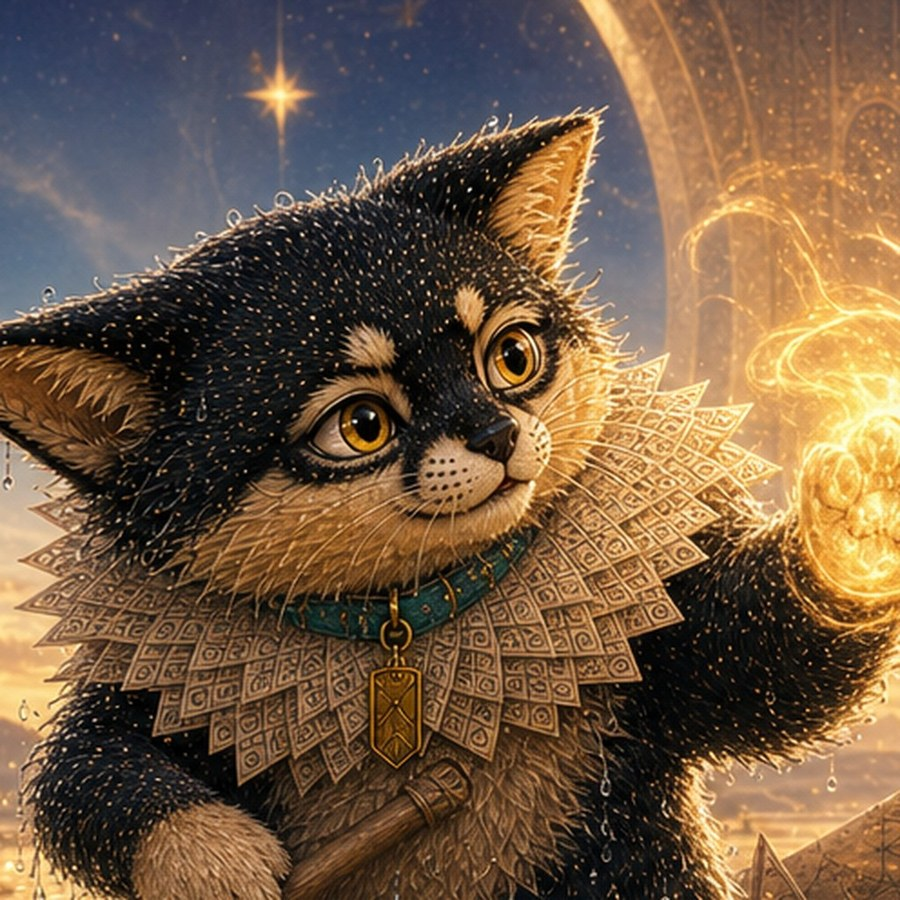
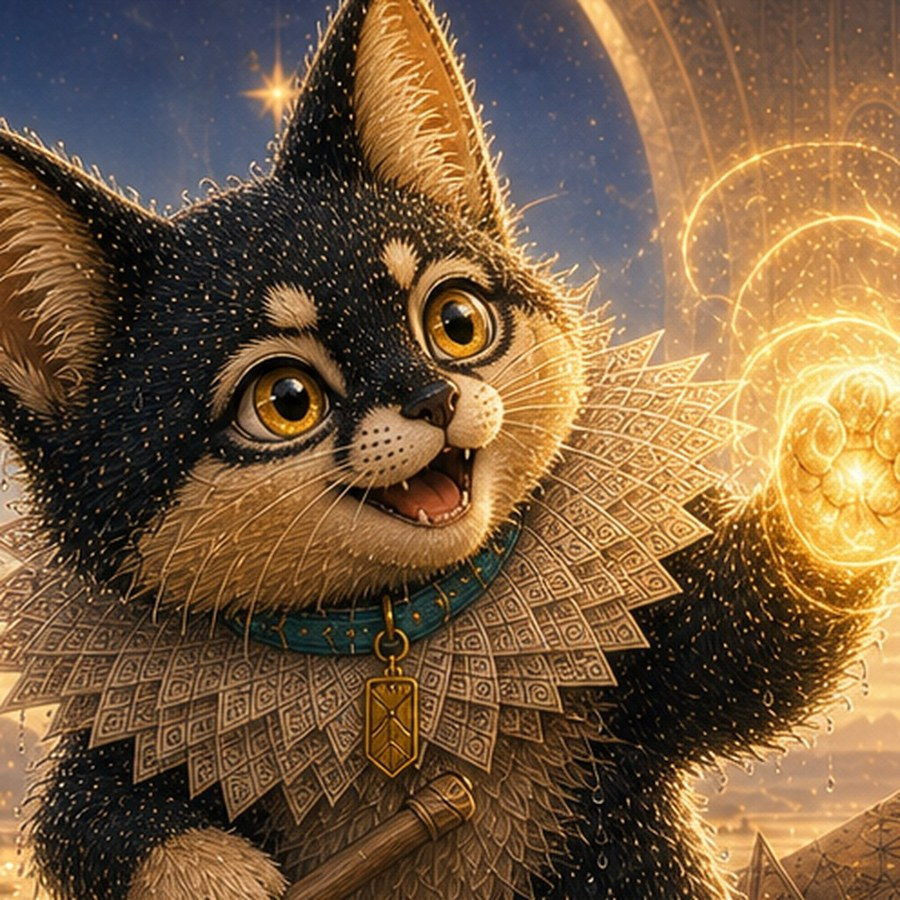
Make July 27 Yeer joyful

diff --git a/_pages/about.md b/_pages/about.md
@@ -47,8 +47,8 @@ yeer:
   image: /assets/img/yeer/yeer-2026-07-27.jpg
   avatar: /assets/img/yeer/avatars/yeer-avatar-2026-07-27.jpg
   date: 2026-07-27
-  mood: "潮退一半，金河开始漂流"
-  text_cn: "早，今天5点页耳醒在一条金色河流上：昨日潮水已退去一半，proof纸折成小船，右爪举着一团晨光，向未知的奇幻世界漂去。"
+  mood: "金河醒来，开心去漂流"
+  text_cn: "早，今天5点多页耳被右爪的一团火欢欢喜喜地叫醒：昨日潮水退去一半，proof纸船顺着金河出发，前面全是奇幻好事。"
   text_en: "Yeer is my AI-born fox-cat companion, created from my mornings, proofs, code, and dreams."
 ---
 

diff --git a/_pages/outreach.md b/_pages/outreach.md
@@ -9,8 +9,8 @@ yeer:
   image: /assets/img/yeer/yeer-2026-07-27.jpg
   avatar: /assets/img/yeer/avatars/yeer-avatar-2026-07-27.jpg
   date: 2026-07-27
-  mood: "潮退一半，金河开始漂流"
-  text_cn: "早，今天5点页耳醒在一条金色河流上：昨日潮水已退去一半，proof纸折成小船，右爪举着一团晨光，向未知的奇幻世界漂去。"
+  mood: "金河醒来，开心去漂流"
+  text_cn: "早，今天5点多页耳被右爪的一团火欢欢喜喜地叫醒：昨日潮水退去一半，proof纸船顺着金河出发，前面全是奇幻好事。"
   text_en: "Yeer is my AI-born fox-cat companion, created from my mornings, proofs, code, and dreams."
 ---
 
